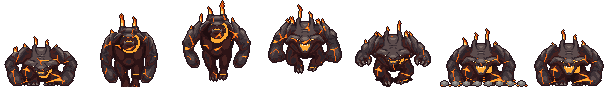
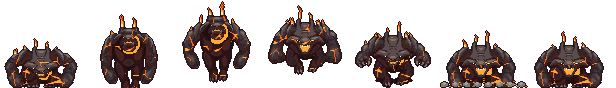
Version 6: grafik under arbete (eldkungen, fiender, vapen)
Claude-Session: https://claude.ai/code/session_01MJjn4zRGf5KuzNecPuFoZ6

diff --git a/tools/props4/make.py b/tools/props4/make.py
@@ -190,7 +190,7 @@ WIZ_P = [(147, 45, 139), (95, 46, 92), (67, 35, 65), (38, 26, 38)]
 NECRO_MAP = {WIZ_P[0]: (46, 44, 56), WIZ_P[1]: (32, 30, 42), WIZ_P[2]: (24, 22, 32), WIZ_P[3]: (16, 14, 22),
              (240, 154, 83): (176, 186, 160), (128, 74, 30): (54, 124, 58), (71, 40, 13): (30, 74, 36),
              (253, 253, 253): (196, 200, 190), (203, 195, 188): (150, 154, 146), (124, 108, 94): (96, 98, 92),
-             (70, 61, 53): (60, 62, 58), (20, 20, 18): OUT}
+             (70, 61, 53): (60, 62, 58), (181, 108, 48): (40, 36, 44), (20, 20, 18): OUT}
 STAFF0, STAFF1 = (52, 34, 34), (84, 58, 50)
 
 
@@ -916,6 +916,8 @@ def make_boss():
     H_ = src[0].height
     feet = max(np.nonzero(np.array(f)[:, :, 3].any(1))[0].max() for f in (src[0], src[5]))
     ground = lambda f: shift(f, 0, feet - np.nonzero(np.array(f)[:, :, 3].any(1))[0].max())
+    for j in (0, 1, 5):                     # all standing frames share one bottom row
+        src[j] = ground(src[j])
     lift = 14   # the jump is lowered a little so the strips stay compact
     idle = [jd_flames(src[j], i / 6) for i, j in enumerate((0, 0, 1, 1, 1, 0))]
     # attack: crouch, leap, fall with the arms spread, land in a burst of lava and dust
@@ -976,6 +978,10 @@ def make_boss():
         bb = b if bb is None else (min(bb[0], b[0]), min(bb[1], b[1]), max(bb[2], b[2]), max(bb[3], b[3]))
     bb = (bb[0] - 1, bb[1] - 1, bb[2] + 1, feet + 2)
     W_, Hh = bb[2] - bb[0], bb[3] - bb[1]
+    if Hh != W_:                            # square frames (the game splits a strip by its height)
+        n_ = max(W_, Hh)
+        bb = (bb[0] - (n_ - W_) // 2, bb[1] - (n_ - Hh), bb[0] - (n_ - W_) // 2 + n_, bb[3])
+        W_, Hh = n_, n_
 
     def save_b(name, frames):
         out = Image.new('RGBA', (W_ * len(frames), Hh), (0, 0, 0, 0))

diff --git a/tools/weapon-frames/README.md b/tools/weapon-frames/README.md
@@ -41,3 +41,21 @@ node render-static.mjs side axe,flamer,launcher
 python3 pack.py xframes ../../ axe,flamer,launcher   # packar bara dessa, övriga poster i js/weapons.js lämnas orörda
 python3 pack.py pick ../../ axe,flamer,launcher      # pick_<vapen>.png ur sidovyerna
 ```
+
+Version 6: spikgeväret (`nailgun`), blixtstaven (`staff`) och långbågen (`bow`).
+Spikgeväret är hopbyggt i `static-defs.json` (`parts`): kroppen är Guns&Explosives `Pipe_Bomb` (utsträckt och mörkt tonad),
+fyra pipor, mässingsringar och en kopparskena är enkla former; rekylen är tre korta rutor. Staven är KayKit `staff_B` (CC0) i
+närstridsläget `melee`: `split` lyfter ut kristallen ur modellen efter texturfärgen och `glow` per pose gör den självlysande
+(1) eller vitblå (2) och förstorar den (`scale`) när staven avfyras; mynningen är kristallen. Bågen är KayKit `bow_A` med
+`bow`: strängen (två tunna cylindrar till nockpunkten) och pilen `arrow_A` byggs i `static.html` och spänns med `draw` (0–1).
+Bågen har tre lägen: `idle` (avspänd med pil), `fire` (släppt, strängen dallrar, ingen pil) och `draw` i `melee.extra`
+(fyra rutor från avspänd till fullt spänd, `durs.draw` anger längden). I `js/weapons.js` blir det
+`states: {idle:[0], fire:[1..4], draw:[5..8]}` och `dur: {fire, draw}`; mynningen för `fire` är pilspetsen i vilobilden.
+`clipBack` skär bort vapnets bakre del med ett klipplan och `"tex": "./..."` pekar på en egen textur i den här mappen.
+
+```bash
+node render-static.mjs fp nailgun,staff,bow
+node render-static.mjs side nailgun,staff,bow
+python3 pack.py xframes ../../ nailgun,staff,bow   # övriga poster i js/weapons.js lämnas orörda
+python3 pack.py pick ../../ nailgun,staff,bow      # bågens upplockningsbild får en ritad sträng
+```
